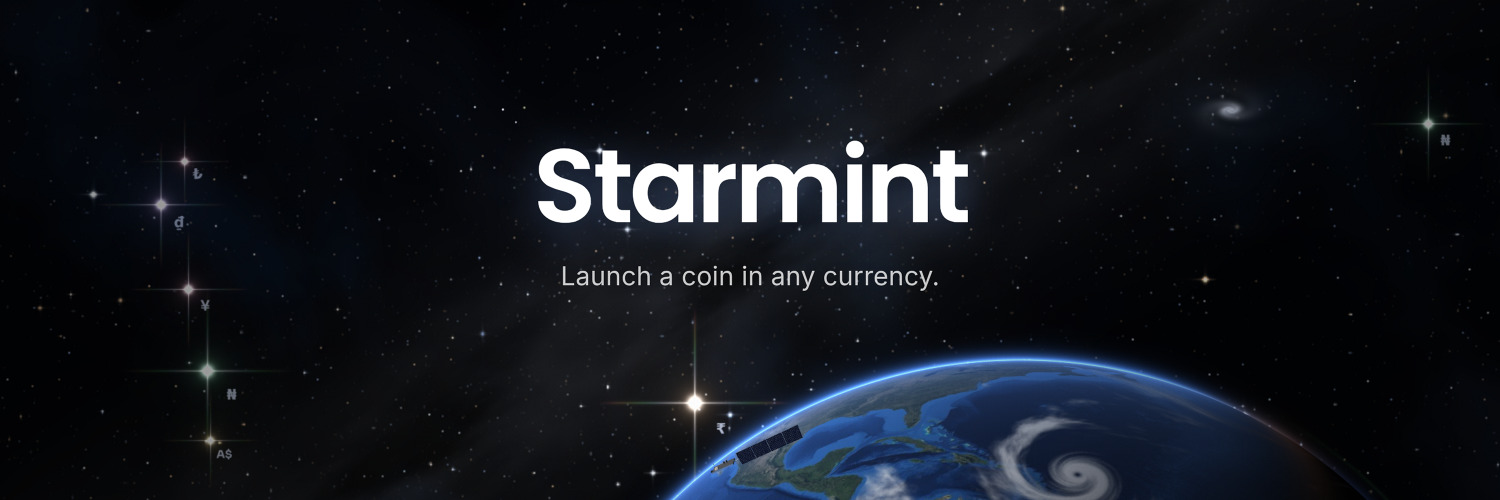
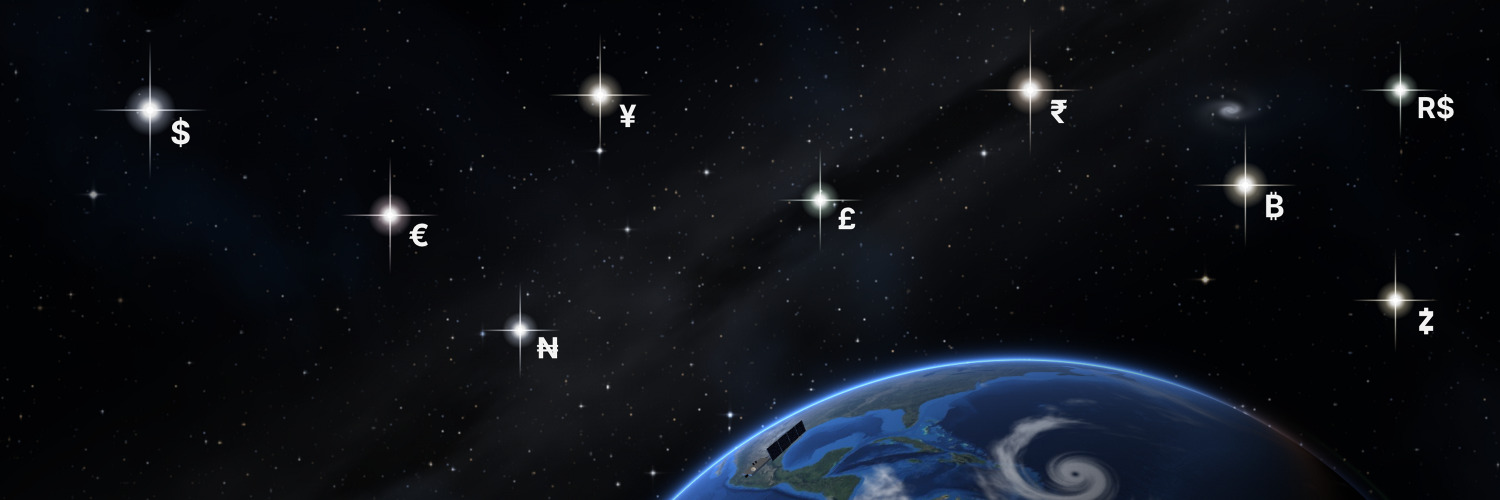
X header without text, the currencies easy to see
The header is the site's sky with no words on it: the Earth, the
satellite, and nine currency stars ($ € ¥ £ ₹ ₦ ₿ R$ and the Zcash sign)
drawn large and white enough to read on X, placed clear of the corner the
profile picture covers.

Claude-Session: https://claude.ai/code/session_01DKdHaQgnLDw2WZfC9mUzzx

diff --git a/downpour/README.md b/downpour/README.md
@@ -175,7 +175,7 @@ Any static host works too, as long as unknown paths fall back to `index.html`.
   (also `favicon.svg`, and the phone icon on a black square), with PNGs at 512 and
   1024 px for X, listings and the like. `token.svg` is the $SMNT token image (a coin
   with a star). `x-pfp.png` (1000×1000, the mark alone) and `x-header.jpg` (1500×500,
-  the site's sky with the name) are the X profile picture and header.
+  the site's sky with its currency stars) are the X profile picture and header.
 - `shared/currencies.json`: which currencies exist, with reference rates.
 - `VITE_DEFAULT_MODE` (`auto` | `live` | `playground`) and `VITE_DEFAULT_CHAIN`
   at build time choose what visitors see first.
